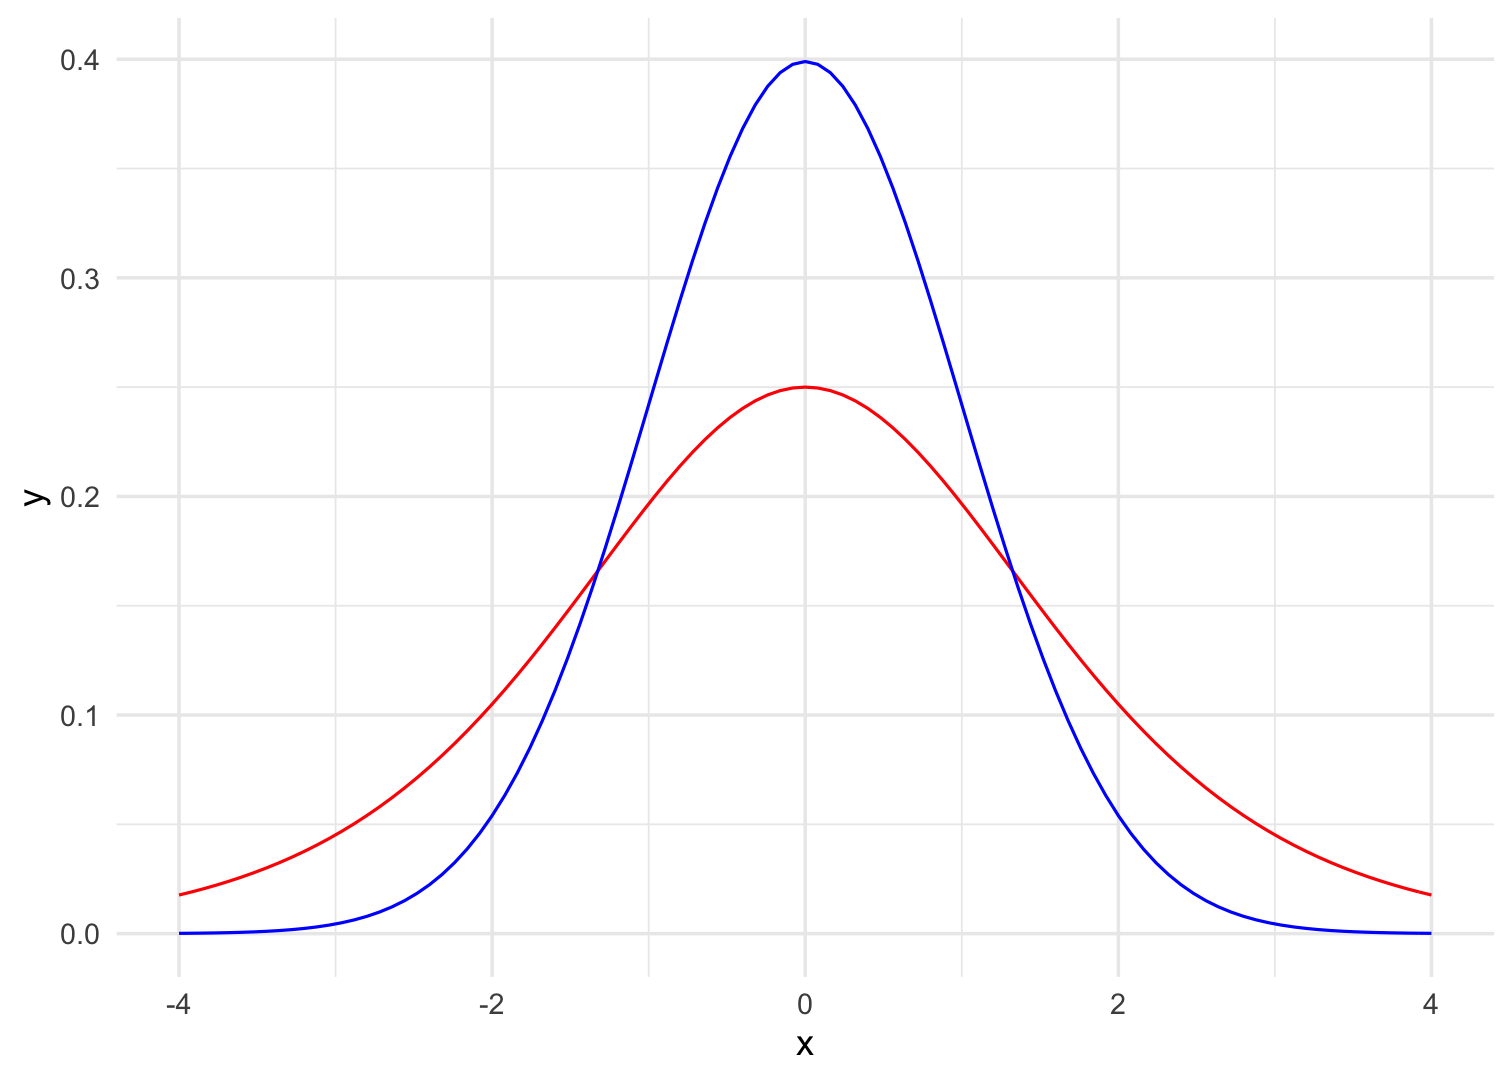
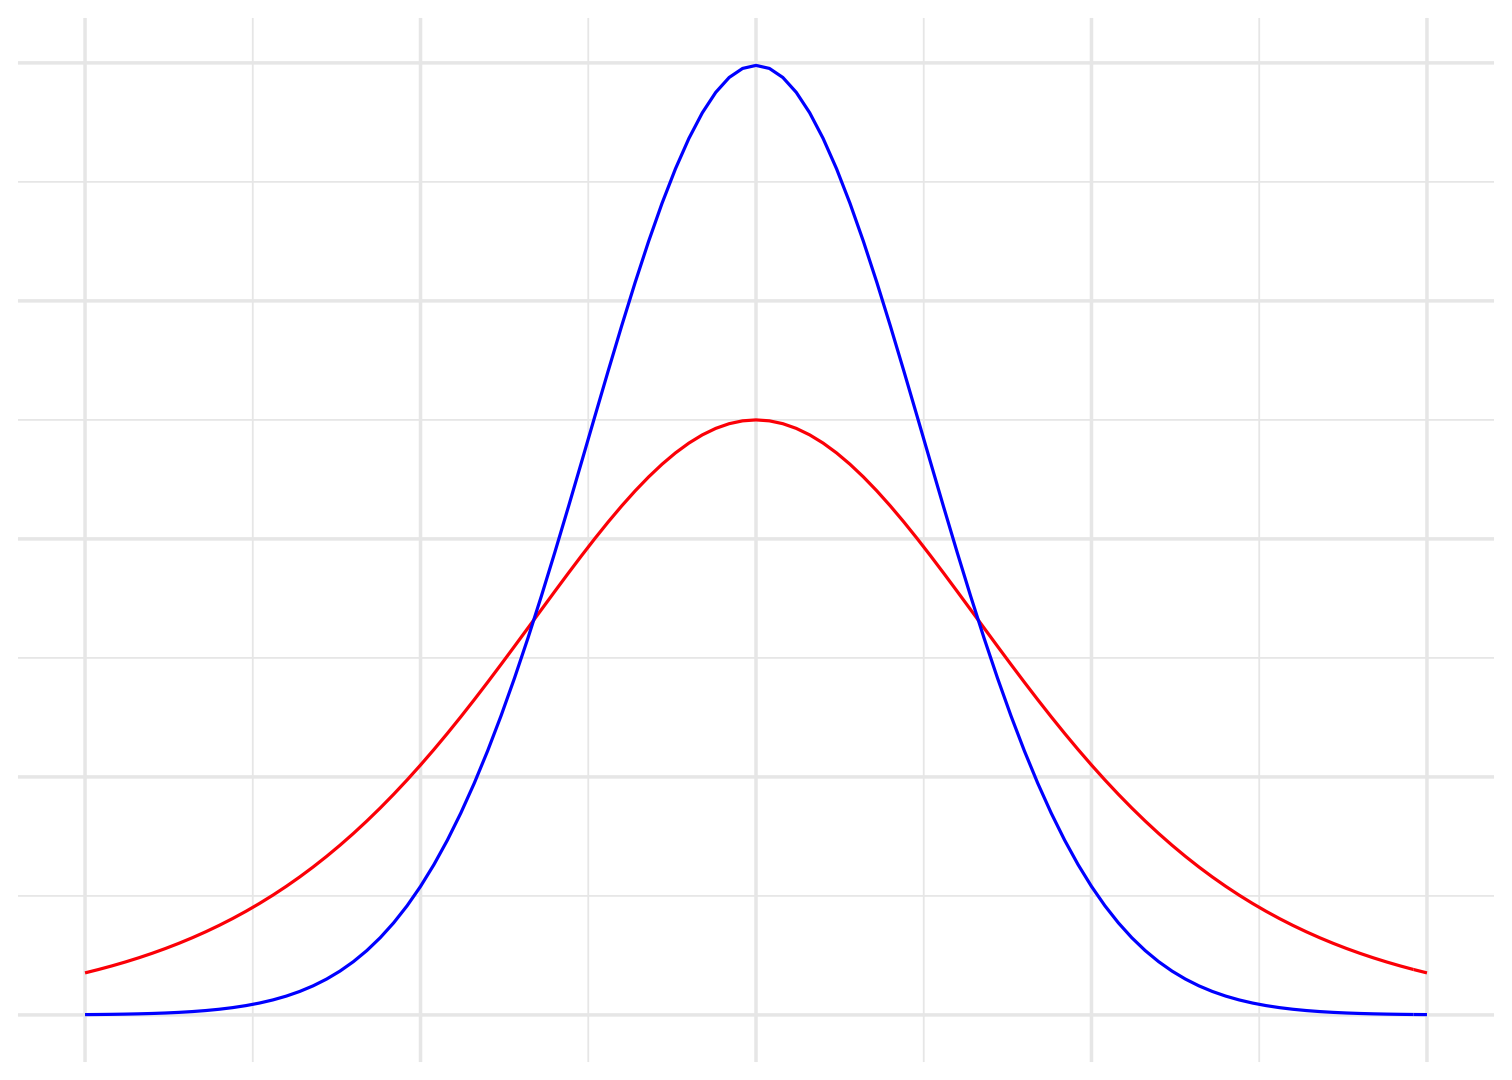
Minor, minor changes to L5

diff --git a/STAT_L5_Binary.html b/STAT_L5_Binary.html
@@ -320,6 +320,13 @@ The standard logistic has the following characteristics:
 ]
 
 .pull-right[
+
+```r
+ggplot(data.frame(x = c(-4, 4)), aes(x = x)) +
+stat_function(fun = dlogis, colour = "red") +
+stat_function(fun = dnorm, colour = "blue")
+```
+
 &lt;img src="STAT_L5_Binary_files/figure-html/pdfcompare-1.png" width="504" /&gt;
 ]
 
@@ -345,6 +352,13 @@ As an example, consider some values for _u_:
 ]
 
 .pull-right[
+
+```r
+ggplot(data.frame(x = c(-4, 4)), aes(x = x)) +
+stat_function(fun = plogis, colour = "red") +
+stat_function(fun = pnorm, colour = "blue")
+```
+
 &lt;img src="STAT_L5_Binary_files/figure-html/cdfcompare-1.png" width="504" /&gt;
 
 Notice the sigmoidal curve and the thick tails!
@@ -493,6 +507,14 @@ We can estimate this model using (e.g.) the `glm()` function in R.
 
 .pull-right[
 
+
+```r
+fullmodel &lt;- glm(War ~ VotedBush + Republican, 
+                 data=iraqVote, 
+                 family=binomial(link="logit"))
+tab_model(fullmodel, transform = NULL)
+```
+
 &lt;table style="border-collapse:collapse; border:none;"&gt;
 &lt;tr&gt;
 &lt;th style="border-top: double; text-align:center; font-style:normal; font-weight:bold; padding:0.2cm;  text-align:left; "&gt;&amp;nbsp;&lt;/th&gt;
@@ -517,7 +539,7 @@ We can estimate this model using (e.g.) the `glm()` function in R.
 &lt;td style=" padding:0.2cm; text-align:left; vertical-align:top; text-align:center;  "&gt;&lt;strong&gt;0.012&lt;/strong&gt;&lt;/td&gt;
 &lt;/tr&gt;
 &lt;tr&gt;
-&lt;td style=" padding:0.2cm; text-align:left; vertical-align:top; text-align:left; "&gt;Republican []&lt;/td&gt;
+&lt;td style=" padding:0.2cm; text-align:left; vertical-align:top; text-align:left; "&gt;Republican [Republican]&lt;/td&gt;
 &lt;td style=" padding:0.2cm; text-align:left; vertical-align:top; text-align:center;  "&gt;3.02&lt;/td&gt;
 &lt;td style=" padding:0.2cm; text-align:left; vertical-align:top; text-align:center;  "&gt;1.30&amp;nbsp;&amp;ndash;&amp;nbsp;5.95&lt;/td&gt;
 &lt;td style=" padding:0.2cm; text-align:left; vertical-align:top; text-align:center;  "&gt;&lt;strong&gt;0.005&lt;/strong&gt;&lt;/td&gt;
@@ -563,6 +585,14 @@ but we have a few options to help us get the most out of this...
 ]
 
 .pull-right[
+
+```r
+fullmodel &lt;- glm(War ~ VotedBush + Republican, 
+                 data=iraqVote, 
+                 family=binomial(link="logit"))
+tab_model(fullmodel, transform = NULL)
+```
+
 &lt;table style="border-collapse:collapse; border:none;"&gt;
 &lt;tr&gt;
 &lt;th style="border-top: double; text-align:center; font-style:normal; font-weight:bold; padding:0.2cm;  text-align:left; "&gt;&amp;nbsp;&lt;/th&gt;
@@ -587,7 +617,7 @@ but we have a few options to help us get the most out of this...
 &lt;td style=" padding:0.2cm; text-align:left; vertical-align:top; text-align:center;  "&gt;&lt;strong&gt;0.012&lt;/strong&gt;&lt;/td&gt;
 &lt;/tr&gt;
 &lt;tr&gt;
-&lt;td style=" padding:0.2cm; text-align:left; vertical-align:top; text-align:left; "&gt;Republican []&lt;/td&gt;
+&lt;td style=" padding:0.2cm; text-align:left; vertical-align:top; text-align:left; "&gt;Republican [Republican]&lt;/td&gt;
 &lt;td style=" padding:0.2cm; text-align:left; vertical-align:top; text-align:center;  "&gt;3.02&lt;/td&gt;
 &lt;td style=" padding:0.2cm; text-align:left; vertical-align:top; text-align:center;  "&gt;1.30&amp;nbsp;&amp;ndash;&amp;nbsp;5.95&lt;/td&gt;
 &lt;td style=" padding:0.2cm; text-align:left; vertical-align:top; text-align:center;  "&gt;&lt;strong&gt;0.005&lt;/strong&gt;&lt;/td&gt;
@@ -633,7 +663,7 @@ but we have a few options to help us get the most out of this...
 &lt;td style=" padding:0.2cm; text-align:left; vertical-align:top; text-align:center;  "&gt;&lt;strong&gt;0.012&lt;/strong&gt;&lt;/td&gt;
 &lt;/tr&gt;
 &lt;tr&gt;
-&lt;td style=" padding:0.2cm; text-align:left; vertical-align:top; text-align:left; "&gt;Republican []&lt;/td&gt;
+&lt;td style=" padding:0.2cm; text-align:left; vertical-align:top; text-align:left; "&gt;Republican [Republican]&lt;/td&gt;
 &lt;td style=" padding:0.2cm; text-align:left; vertical-align:top; text-align:center;  "&gt;3.02&lt;/td&gt;
 &lt;td style=" padding:0.2cm; text-align:left; vertical-align:top; text-align:center;  "&gt;1.30&amp;nbsp;&amp;ndash;&amp;nbsp;5.95&lt;/td&gt;
 &lt;td style=" padding:0.2cm; text-align:left; vertical-align:top; text-align:center;  "&gt;&lt;strong&gt;0.005&lt;/strong&gt;&lt;/td&gt;
@@ -686,6 +716,13 @@ Much more intuitive than log-odds!
 Would you prefer to bet on a horse winning at the track based on log-odds of -1.95 or an odds ratio of 7 to 1?
 ]
 
+???
+
+For more on probability and odds see [this](https://stats.seandolinar.com/statistics-probability-vs-odds/).
+
+---
+background-image: url(https://media.giphy.com/media/tALnlXYyyDJFS/giphy.gif)
+background-size: contain
 
 ---
 .pull-left[
@@ -708,6 +745,12 @@ Quick Guide:
 ]
 
 .pull-right[
+
+```r
+ # sjPlot reports OR by default
+ tab_model(fullmodel)
+```
+
 &lt;table style="border-collapse:collapse; border:none;"&gt;
 &lt;tr&gt;
 &lt;th style="border-top: double; text-align:center; font-style:normal; font-weight:bold; padding:0.2cm;  text-align:left; "&gt;&amp;nbsp;&lt;/th&gt;
@@ -732,7 +775,7 @@ Quick Guide:
 &lt;td style=" padding:0.2cm; text-align:left; vertical-align:top; text-align:center;  "&gt;&lt;strong&gt;0.012&lt;/strong&gt;&lt;/td&gt;
 &lt;/tr&gt;
 &lt;tr&gt;
-&lt;td style=" padding:0.2cm; text-align:left; vertical-align:top; text-align:left; "&gt;Republican []&lt;/td&gt;
+&lt;td style=" padding:0.2cm; text-align:left; vertical-align:top; text-align:left; "&gt;Republican [Republican]&lt;/td&gt;
 &lt;td style=" padding:0.2cm; text-align:left; vertical-align:top; text-align:center;  "&gt;20.47&lt;/td&gt;
 &lt;td style=" padding:0.2cm; text-align:left; vertical-align:top; text-align:center;  "&gt;3.69&amp;nbsp;&amp;ndash;&amp;nbsp;384.20&lt;/td&gt;
 &lt;td style=" padding:0.2cm; text-align:left; vertical-align:top; text-align:center;  "&gt;&lt;strong&gt;0.005&lt;/strong&gt;&lt;/td&gt;
@@ -822,9 +865,18 @@ either in-sample, out-of-sample, or totally-made-up,
 to `predict()` and see what probability of a 1 would be predicted by the model:
 
 
+```r
+predict(fullmodel, type="response")[1:4]
+```
+
 ```
 ##         1         2         3         4 
 ## 0.9850607 0.9850607 0.9968734 0.9968734
+```
+
+```r
+(test &lt;- data.frame(Republican = as.factor(c("Democrat","Democrat","Republican","Republican")),
+                   VotedBush = seq(20,80, by = 20)))
 ```
 
 ```
@@ -833,6 +885,10 @@ to `predict()` and see what probability of a 1 would be predicted by the model:
 ## 2   Democrat        40
 ## 3 Republican        60
 ## 4 Republican        80
+```
+
+```r
+predict(fullmodel, newdata=test, type="response")
 ```
 
 ```
@@ -857,8 +913,19 @@ However, some argue that marginal effects for categorical independent variables 
 ]
 
 .pull-right[
-&lt;img src="STAT_L5_Binary_files/figure-html/margins-1.png" width="504" /&gt;
+
+```r
+plot_model(fullmodel, type = "pred", 
+     terms = c("VotedBush","Republican"),
+     colors = c("blue","red"))
+```
+
+&lt;img src="STAT_L5_Binary_files/figure-html/plotmargins-1.png" width="504" /&gt;
 ]
+
+???
+
+See [here](https://strengejacke.github.io/sjPlot/articles/plot_marginal_effects.html) for more on `sjPlot`'s `plot_model()`.
 
 ---
 ### Average Marginal Effects
@@ -866,6 +933,11 @@ However, some argue that marginal effects for categorical independent variables 
 One can also calculate AMEs (average marginal effects), 
 which are the differences in values associated with a unit change in the specified covariate.
 
+
+```r
+library(margins)
+summary(margins(fullmodel))
+```
 
 ```
 ##                factor    AME     SE      z      p  lower  upper
@@ -932,6 +1004,15 @@ Most notable is McFadden’s \\(R^2\\):
 - ranges from 0 to just under 1, with values closer to zero indicating that the model has no predictive power.
 
 
+```r
+library(pscl)
+pR2(fullmodel)  # look for 'McFadden'
+```
+
+```
+## fitting null model for pseudo-r2
+```
+
 ```
 ##         llh     llhNull          G2    McFadden        r2ML        r2CU 
 ## -35.9421472 -53.9276341  35.9709740   0.3335115   0.3021211   0.4578199
@@ -951,6 +1032,13 @@ There is some discussion of pseudo-\\(R^2\\) [here](https://statisticalhorizons.
 ### Akaike’s information criterion (AIC)
 
 Better to report the log-likelihood and use AIC and BIC to compare models (as discussed last week).
+
+
+```r
+partyonly &lt;- glm(War ~ Republican, data=iraqVote, 
+                 family=binomial(link="logit"))
+tab_model(partyonly, fullmodel, show.loglik = T, show.aic = T, show.r2 = F)
+```
 
 &lt;table style="border-collapse:collapse; border:none;"&gt;
 &lt;tr&gt;
@@ -977,7 +1065,7 @@ Better to report the log-likelihood and use AIC and BIC to compare models (as di
 &lt;td style=" padding:0.2cm; text-align:left; vertical-align:top; text-align:center;  col7"&gt;&lt;strong&gt;0.017&lt;/strong&gt;&lt;/td&gt;
 &lt;/tr&gt;
 &lt;tr&gt;
-&lt;td style=" padding:0.2cm; text-align:left; vertical-align:top; text-align:left; "&gt;Republican []&lt;/td&gt;
+&lt;td style=" padding:0.2cm; text-align:left; vertical-align:top; text-align:left; "&gt;Republican [Republican]&lt;/td&gt;
 &lt;td style=" padding:0.2cm; text-align:left; vertical-align:top; text-align:center;  "&gt;36.41&lt;/td&gt;
 &lt;td style=" padding:0.2cm; text-align:left; vertical-align:top; text-align:center;  "&gt;7.06&amp;nbsp;&amp;ndash;&amp;nbsp;669.38&lt;/td&gt;
 &lt;td style=" padding:0.2cm; text-align:left; vertical-align:top; text-align:center;  "&gt;&lt;strong&gt;0.001&lt;/strong&gt;&lt;/td&gt;
@@ -1037,6 +1125,10 @@ It would provide evidence against the reduced model in favor of the current mode
 
 .pull-right[
 
+```r
+anova(partyonly, fullmodel, test ="Chisq")
+```
+
 ```
 ## Analysis of Deviance Table
 ## 
@@ -1047,6 +1139,11 @@ It would provide evidence against the reduced model in favor of the current mode
 ## 2        97     71.884  1    7.616 0.005785 **
 ## ---
 ## Signif. codes:  0 '***' 0.001 '**' 0.01 '*' 0.05 '.' 0.1 ' ' 1
+```
+
+```r
+library(lmtest)
+lrtest(partyonly, fullmodel)
 ```
 
 ```
@@ -1093,6 +1190,18 @@ The metric ranges from 0.50 to 1.00, and some good rules of thumb for interpreta
 
 .pull-right[
 
+
+```r
+library(plotROC)
+test &lt;- data.frame(resp = c(iraqVote$War), 
+                    PartyOnly = predict(partyonly, iraqVote, type="response"),
+                    FullModel = predict(fullmodel, iraqVote, type="response"))
+test &lt;- melt_roc(test, "resp", c("PartyOnly","FullModel"))
+out &lt;- ggplot(test, aes(d = D, m = M, colour = name)) +
+   geom_roc(n.cuts = 0) + style_roc(theme = theme_grey)
+out + annotate("text", x = .75, y = .25, label = paste(paste(unique(test$name), "AUC =", round(calc_auc(out)$AUC, 2)), collapse = "\n"))
+```
+
 &lt;img src="STAT_L5_Binary_files/figure-html/roc-1.png" width="504" /&gt;
 
 By these criteria, our full voting model predicts well,
@@ -1108,6 +1217,10 @@ There are a range of variations on this theme.
 I may add some notes about some of the more common ones if I get time.
 
 ---
+background-image: url(https://i2.wp.com/modelplot.github.io/img/cartoonrocplot.jpg?w=456&amp;ssl=1)
+background-size: contain
+
+---
 ## Wald Test
 
 We learned last week that we can use the Wald test to evaluate the statistical significance of each coefficient in the model.
@@ -1117,11 +1230,20 @@ Idea is to test the hypothesis that the coefficient of an feature in the model i
 If test fails to reject null hypothesis, removing the variable from the model should not substantially harm the fit of that model.
 
 
+```r
+library(survey)
+regTermTest(fullmodel, "VotedBush")
+```
+
 ```
 ## Wald test for VotedBush
 ##  in glm(formula = War ~ VotedBush + Republican, family = binomial(link = "logit"), 
 ##     data = iraqVote)
 ## F =  6.308672  on  1  and  97  df: p= 0.013666
+```
+
+```r
+regTermTest(fullmodel, "Republican")
 ```
 
 ```
@@ -1167,6 +1289,7 @@ class: center, middle
     </textarea>
 <style data-target="print-only">@media screen {.remark-slide-container{display:block;}.remark-slide-scaler{box-shadow:none;}}</style>
 <script src="libs/remark-latest.min.js"></script>
+<script src="macros.js"></script>
 <script>var slideshow = remark.create({
 "ratio": "16:9",
 "highlightStyle": "github",
@@ -1213,6 +1336,32 @@ if (window.HTMLWidgets) slideshow.on('afterShowSlide', function (slide) {
     deleted = true;
   });
 })();
+(function() {
+  "use strict"
+  // Replace <script> tags in slides area to make them executable
+  var scripts = document.querySelectorAll(
+    '.remark-slides-area .remark-slide-container script'
+  );
+  if (!scripts.length) return;
+  for (var i = 0; i < scripts.length; i++) {
+    var s = document.createElement('script');
+    var code = document.createTextNode(scripts[i].textContent);
+    s.appendChild(code);
+    var scriptAttrs = scripts[i].attributes;
+    for (var j = 0; j < scriptAttrs.length; j++) {
+      s.setAttribute(scriptAttrs[j].name, scriptAttrs[j].value);
+    }
+    scripts[i].parentElement.replaceChild(s, scripts[i]);
+  }
+})();
+(function() {
+  var links = document.getElementsByTagName('a');
+  for (var i = 0; i < links.length; i++) {
+    if (/^(https?:)?\/\//.test(links[i].getAttribute('href'))) {
+      links[i].target = '_blank';
+    }
+  }
+})();
 // adds .remark-code-has-line-highlighted class to <pre> parent elements
 // of code chunks containing highlighted lines with class .remark-code-line-highlighted
 (function(d) {
@@ -1230,17 +1379,6 @@ if (window.HTMLWidgets) slideshow.on('afterShowSlide', function (slide) {
   }
   preParents.forEach(p => p.classList.add("remark-code-has-line-highlighted"));
 })(document);</script>
-
-<script>
-(function() {
-  var links = document.getElementsByTagName('a');
-  for (var i = 0; i < links.length; i++) {
-    if (/^(https?:)?\/\//.test(links[i].getAttribute('href'))) {
-      links[i].target = '_blank';
-    }
-  }
-})();
-</script>
 
 <script>
 slideshow._releaseMath = function(el) {
